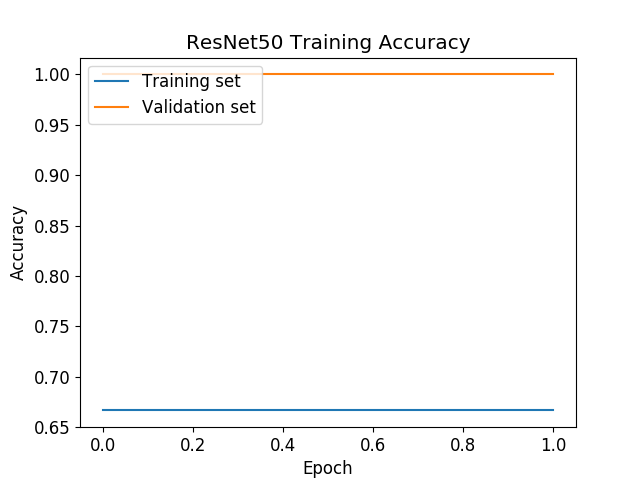
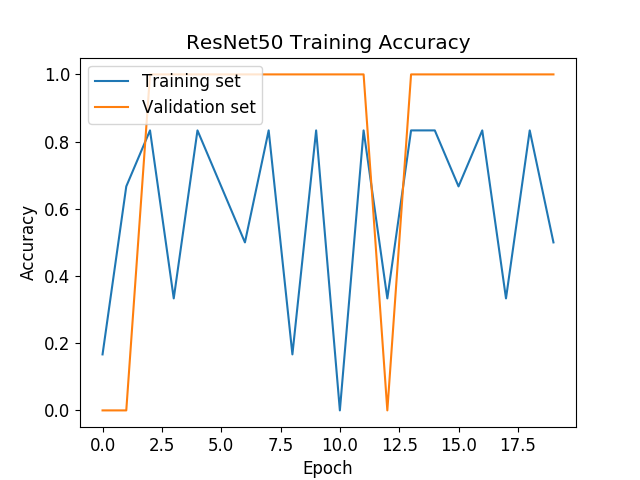
debugg testing function

diff --git a/code/train.py b/code/train.py
@@ -19,5 +19,5 @@ x_train = x_train["images"]
 x_train = np.array([x for x in x_train])
 del y_train["filenames"]
 
-model.train(x_train, y_train, epochs=2, batch_size=1, validation_split=0.1, output_path="./output")
-#model.save_model("./output") Better not save this because its huge and uselessg
+model.train(x_train, y_train, epochs=20, batch_size=1, validation_split=0.1, output_path="./output")
+#model.test(x_train, y_train, "./output", batch_size=1)

diff --git a/code/model.py b/code/model.py
@@ -66,8 +66,8 @@ class ResNet50:
       plt.savefig("./output/model-training-loss")
       plt.close()
 
-  def test(self, x_test, y_test, output_path):
-    testing = self.model.evaluate(x_test, y_test)
+  def test(self, x_test, y_test, output_path, batch_size):
+    testing = self.model.evaluate(x_test, y_test, batch_size=batch_size)
 
     if not os.path.isdir(str(output_path)):
       os.mkdir(str(output_path))
